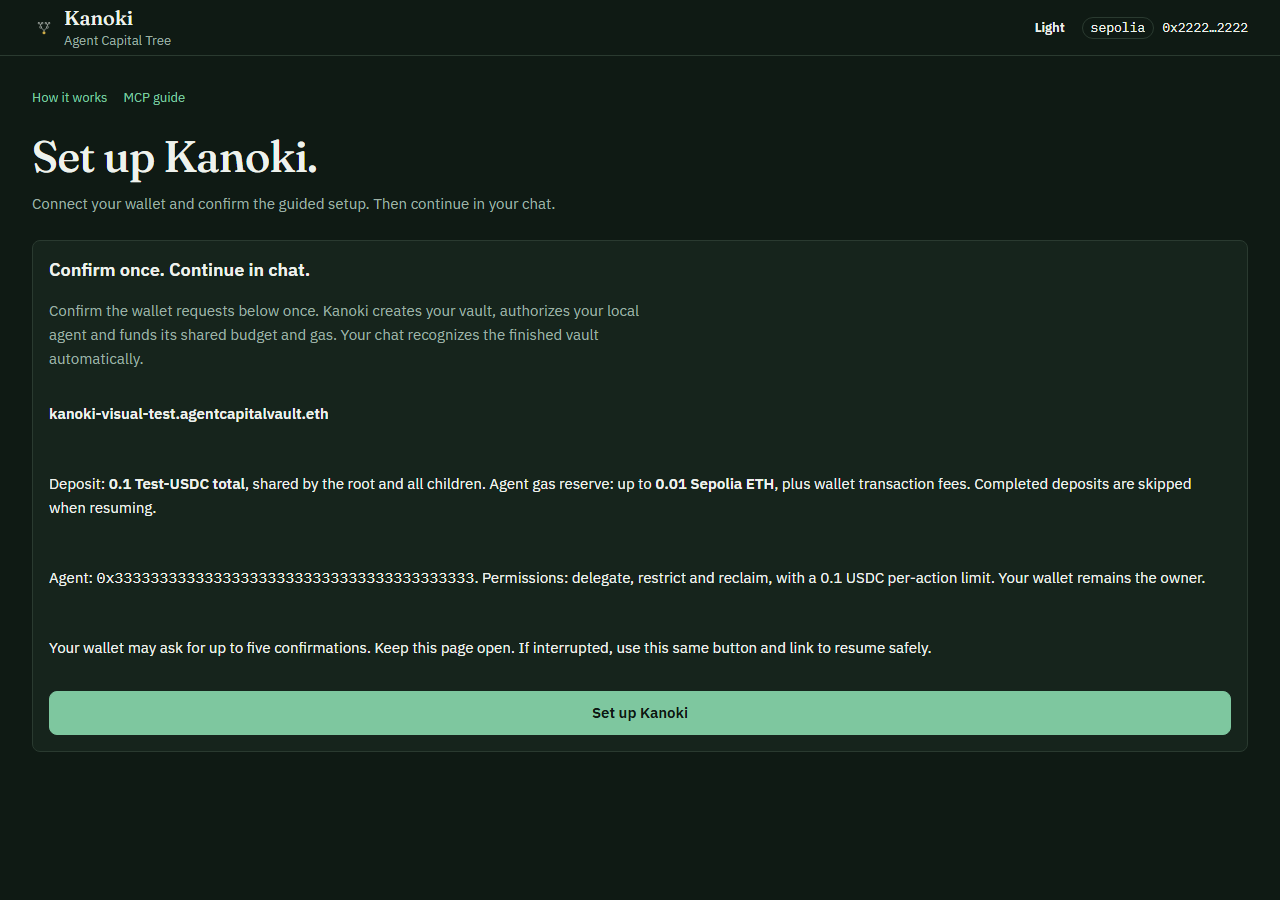
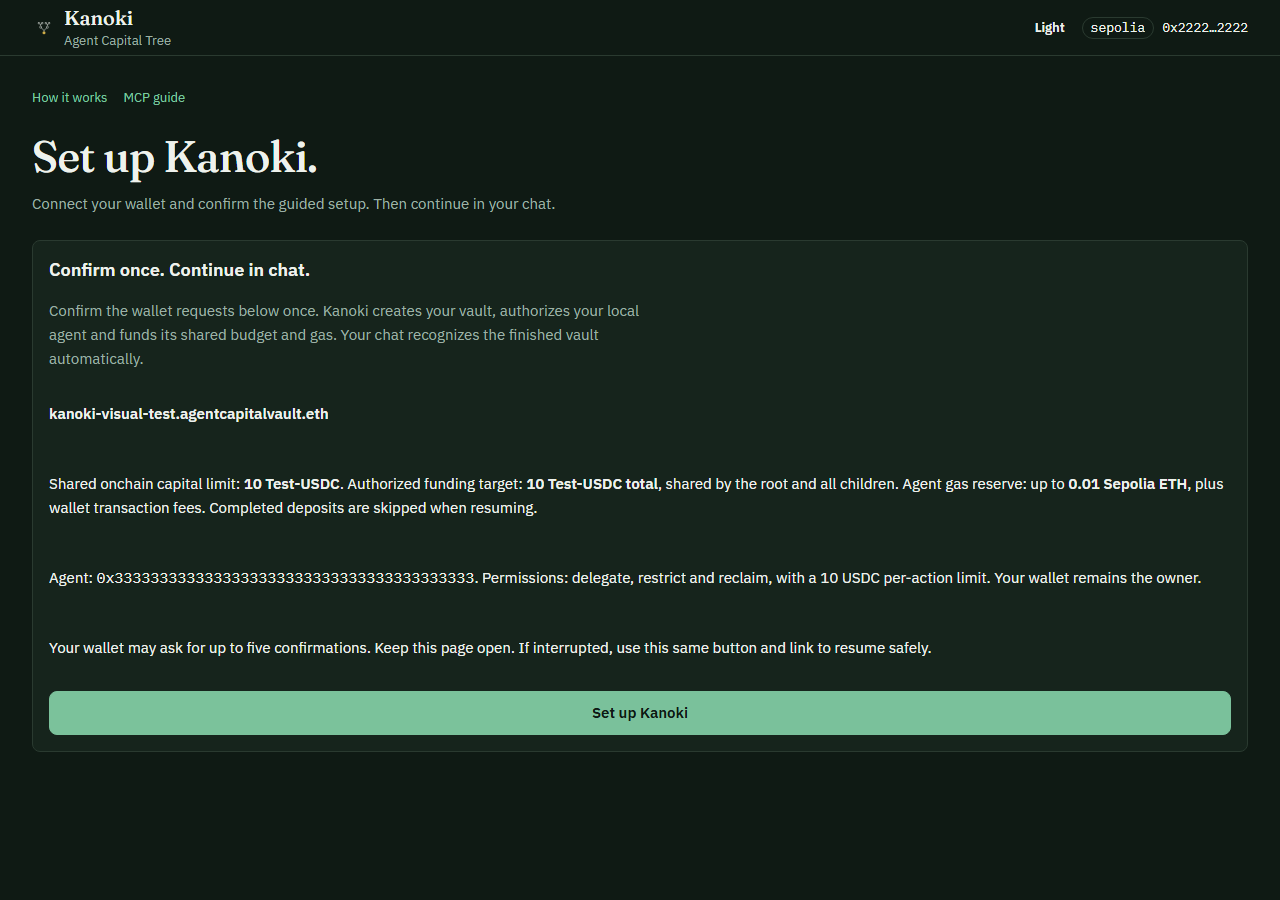
feat(web): persist explicit tree limits and resumable wallet steps
Separate shared limit, authorized funding and gas; reconcile receipts and skip completed funding. Production build, typecheck and guided wallet/browser checks passed.

Changed region(s): [[0.0312, 0.5289, 0.9688, 0.5911], [0.625, 0.6222, 0.9375, 0.6533]]

diff --git a/apps/web/src/lib/use-wallet-actions.ts b/apps/web/src/lib/use-wallet-actions.ts
@@ -36,6 +36,7 @@ export interface WalletActionNotice {
   label: string;
   message: string;
   transactionHash?: Hash;
+  steps?: Record<string, {status: string; hash?: Hash}>;
 }
 
 const permissionCapabilities: Record<Permission, Capability> = {
@@ -286,10 +287,10 @@ export function useWalletActions({
   }
 
   const actions: DashboardActions = {
-    async completeRootSetup(label, operatorInput, budgetRaw, draft) {
+    async completeRootSetup(label, operatorInput, budgetRaw, draft, fundingRaw) {
       if (busy.current) throw new Error("Setup is already running.");
       if (deployment.recoveryOnly) throw new Error("New setup requires the current Kanoki deployment.");
-      if (!/^[a-z][a-z0-9-]{0,30}$/.test(label) || !isAddress(operatorInput) || operatorInput === zeroAddress || !/^[1-9]\d{0,5}$/.test(budgetRaw) || BigInt(budgetRaw) > 100000n) throw new Error("Invalid prepared setup link.");
+      if (!/^[a-z][a-z0-9-]{0,30}$/.test(label) || !isAddress(operatorInput) || operatorInput === zeroAddress || !/^[1-9]\d{0,77}$/.test(budgetRaw) || BigInt(budgetRaw) >= 2n ** 256n || !/^(0|[1-9]\d{0,77})$/.test(fundingRaw) || BigInt(fundingRaw) > BigInt(budgetRaw)) throw new Error("Invalid prepared setup limit or funding amount.");
       busy.current = true;
       try {
         const context = await createContext();
@@ -297,17 +298,20 @@ export function useWalletActions({
         if (operator.toLowerCase() === context.account.toLowerCase()) throw new Error("The local agent must be separate from your owner wallet.");
         const policy = makePolicy(draft, await readTokenDecimals(context), deployment);
         const journalKey = `kanoki-setup:11155111:${context.controller.toLowerCase()}:${context.account.toLowerCase()}:${label}`;
-        const fingerprint = JSON.stringify({ operator, budgetRaw });
+        const fingerprint = JSON.stringify({ operator, budgetRaw, fundingRaw });
         const saved = localStorage.getItem(journalKey);
-        const journal: { fingerprint: string; pendingHash?: Hash; submitting?: boolean; funded?: boolean; gasFunded?: boolean } = saved ? JSON.parse(saved) : { fingerprint };
+        const journal: { fingerprint: string; pendingHash?: Hash; pendingStep?: string; submitting?: boolean; funded?: boolean; gasFunded?: boolean; steps?: Record<string,{status:string;hash?:Hash}> } = saved ? JSON.parse(saved) : { fingerprint };
+        journal.steps ??= Object.fromEntries(['Root creation','Operator authorization','USDC approval','USDC funding','Operator gas'].map(step=>[step,{status:'required'}]));
         if (journal.fingerprint !== fingerprint) throw new Error("This setup already started with different parameters. Reopen its original link; do not create a replacement.");
         const persist = () => localStorage.setItem(journalKey, JSON.stringify(journal));
         persist(); // Prove durable storage works before the first wallet request.
         if (journal.submitting && !journal.pendingHash) throw new Error("A previous wallet request has an unknown outcome. Check your wallet activity before any retry; no replacement transaction will be sent.");
         const reconcile = async () => {
           if (!journal.pendingHash) return;
-          setNotice({ stage: "confirming", label: "Resume wallet setup", message: "Checking the previously submitted transaction. No replacement will be sent.", transactionHash: journal.pendingHash });
+          if (journal.pendingStep) journal.steps![journal.pendingStep] = {status:'transaction pending',hash:journal.pendingHash};
+          setNotice({ stage: "confirming", label: "Resume wallet setup", message: "Checking the previously submitted transaction. No replacement will be sent.", transactionHash: journal.pendingHash,steps:{...journal.steps} });
           const receipt = await context.publicClient.waitForTransactionReceipt({ hash: journal.pendingHash });
+          if (journal.pendingStep) journal.steps![journal.pendingStep] = {status:receipt.status === 'success'?'confirmed':'failed',hash:journal.pendingHash};
           delete journal.pendingHash; delete journal.submitting; persist();
           if (receipt.status !== "success") throw new Error("The previous setup transaction reverted. Resume setup to retry that step.");
         };
@@ -315,7 +319,9 @@ export function useWalletActions({
         const send = async (label: string, submit: () => Promise<Hash>) => {
           const accounts = await context.walletClient.getAddresses();
           if (accounts[0]?.toLowerCase() !== context.account.toLowerCase() || await context.walletClient.getChainId() !== sepolia.id) throw new Error("Wallet account or network changed; setup stopped.");
-          setNotice({ stage: "awaiting-wallet", label, message: "Confirm this setup transaction in your wallet. Remaining steps continue automatically." });
+          journal.pendingStep = label;
+          journal.steps![label] = {status:'signature pending'};
+          setNotice({ stage: "awaiting-wallet", label, message: "Confirm this setup transaction in your wallet. Remaining steps continue automatically.",steps:{...journal.steps} });
           journal.submitting = true; persist();
           try { journal.pendingHash = await submit(); persist(); }
           catch (error) {
@@ -330,6 +336,7 @@ export function useWalletActions({
           await reconcile();
         };
         const contract = { address: context.controller, abi: capitalControllerAbi } as const;
+        await context.publicClient.readContract({ ...contract, functionName: "rootCapitalLimit", args: [0n] });
         const next = await context.publicClient.readContract({ ...contract, functionName: "nextNodeId" });
         if (next > 513n) throw new Error("Vault directory exceeds the supported lookup size.");
         let root: Awaited<ReturnType<typeof readNode>> | undefined;
@@ -339,38 +346,42 @@ export function useWalletActions({
           if (node.parentId === 0n && node.label === label) { root = node; break; }
         }
         if (!root) {
-          const { request } = await context.publicClient.simulateContract({ ...contract, account: context.account, functionName: "createRoot", args: [label, policy] });
-          await send("1/4 · Create your vault", () => context.walletClient.writeContract(request));
+          const { request } = await context.publicClient.simulateContract({ ...contract, account: context.account, functionName: "createRootWithCapitalLimit", args: [label, policy, BigInt(budgetRaw)] });
+          await send("Root creation", () => context.walletClient.writeContract(request));
           const end = await context.publicClient.readContract({ ...contract, functionName: "nextNodeId" });
           for (let id = next; id < end; id++) { const node = await readNode(id); if (node.parentId === 0n && node.label === label) { root = node; break; } }
         }
         if (!root) throw new Error("Confirmed root could not be found. Resume this same setup; do not choose a new name.");
         if (root.revoked) throw new Error("This vault is permanently revoked. Setup stopped without funding.");
+        const actualLimit = await context.publicClient.readContract({...contract, functionName:"rootCapitalLimit", args:[root.id]});
+        if (actualLimit !== BigInt(budgetRaw)) throw new Error("Onchain shared capital limit differs from the confirmed setup. No funding requested.");
         await requireOwner(context, String(root.id));
         const bound = await context.publicClient.readContract({ ...contract, functionName: "rootOperator", args: [root.id] });
         if (bound !== zeroAddress && bound.toLowerCase() !== operator.toLowerCase()) throw new Error("A different operator is already bound. Setup will not replace it.");
         if (bound === zeroAddress) {
           const { request } = await context.publicClient.simulateContract({ ...contract, account: context.account, functionName: "setRootOperator", args: [root.id, operator, root.policy] });
-          await send("2/4 · Authorize your local Kanoki agent", () => context.walletClient.writeContract(request));
+          await send("Operator authorization", () => context.walletClient.writeContract(request));
         }
         const missingFunding = async () => {
           const blockNumber = await context.publicClient.getBlockNumber();
           const ids = await context.publicClient.readContract({ ...contract, functionName: "getRootNodeIds", args: [root!.id], blockNumber });
           let total = 0n;
           for (const id of ids) { const node = await context.publicClient.readContract({ ...contract, functionName: "getNode", args: [id], blockNumber }); total += await context.publicClient.readContract({ address: context.tokens[0], abi: erc20Abi, functionName: "balanceOf", args: [node.vault], blockNumber }); }
-          return BigInt(budgetRaw) > total ? BigInt(budgetRaw) - total : 0n;
+          const funded = await context.publicClient.readContract({...contract,functionName:"rootCapitalFunded",args:[root!.id],blockNumber});
+          const accounted = total > funded ? total : funded;
+          return BigInt(fundingRaw) > accounted ? BigInt(fundingRaw) - accounted : 0n;
         };
         let missing = await missingFunding();
         if (!journal.funded && missing > 0n) {
           const allowance = await context.publicClient.readContract({ address: context.tokens[0], abi: erc20Abi, functionName: "allowance", args: [context.account, context.controller] });
           if (allowance < missing) {
             const { request } = await context.publicClient.simulateContract({ address: context.tokens[0], abi: erc20Abi, account: context.account, functionName: "approve", args: [context.controller, missing] });
-            await send("3/4 · Approve the exact USDC deposit", () => context.walletClient.writeContract(request));
+            await send("USDC approval", () => context.walletClient.writeContract(request));
           }
           missing = await missingFunding();
           if (missing > 0n) {
             const { request } = await context.publicClient.simulateContract({ ...contract, account: context.account, functionName: "fundRoot", args: [root.id, [missing, 0n]] });
-            await send("3/4 · Fund your shared vault budget", () => context.walletClient.writeContract(request));
+            await send("USDC funding", () => context.walletClient.writeContract(request));
           }
         }
         journal.funded = true; persist();
@@ -379,10 +390,12 @@ export function useWalletActions({
         if (!journal.gasFunded && gasBalance < reserve) {
           const value = reserve - gasBalance;
           const gas = await context.publicClient.estimateGas({ account: context.account, to: operator, value });
-          await send("4/4 · Fund the agent's Sepolia gas reserve", () => context.walletClient.sendTransaction({ account: context.account, chain: sepolia, to: operator, value, gas }));
+          await send("Operator gas", () => context.walletClient.sendTransaction({ account: context.account, chain: sepolia, to: operator, value, gas }));
         }
         journal.gasFunded = true; persist();
-        setNotice({ stage: "confirmed", label: "Kanoki setup completed", message: "Return to your chat. Kanoki recognizes this vault automatically and checks its current balance and gas. Completed deposits are never repeated." });
+        for (const entry of Object.values(journal.steps!)) if (entry.status === 'required') entry.status = 'already satisfied';
+        persist();
+        setNotice({ stage: "confirmed", label: "Kanoki setup completed", message: "Kanoki continues the saved task automatically. No done message or transaction hash is needed. Completed deposits are never repeated.",steps:{...journal.steps} });
         return root.vault;
       } catch (cause) {
         setNotice({ stage: "error", label: "Resume Kanoki setup", message: errorMessage(cause) });
@@ -477,7 +490,7 @@ export function useWalletActions({
 
         const checkDemoFunding = async () => {
           if (demoTotalBudgetRaw === undefined) return; // The demo cap is NOT a general contract balance limit.
-          if (!/^[1-9]\d{0,5}$/.test(demoTotalBudgetRaw) || BigInt(demoTotalBudgetRaw) > 100000n) throw new Error("Demo total budget must be at most 100000 raw units = 0.10 Test-USDC.");
+          if (!/^[1-9]\d{0,77}$/.test(demoTotalBudgetRaw) || BigInt(demoTotalBudgetRaw) >= 2n ** 256n) throw new Error("Shared capital amount must be a positive uint256 in raw Test-USDC units.");
           const blockNumber = await context.publicClient.getBlockNumber();
           const ids = await context.publicClient.readContract({ address: context.controller, abi: capitalControllerAbi, functionName: "getRootNodeIds", args: [BigInt(rootId)], blockNumber });
           let total = 0n;

diff --git a/apps/web/src/components/wallet-controls.tsx b/apps/web/src/components/wallet-controls.tsx
@@ -1,5 +1,6 @@
 "use client";
 import { ConfirmModal } from "./treasury-records";
+import { formatUnits } from "viem";
 
 import { useEffect, useState, type FormEvent, type ReactNode } from "react";
 import { ArrowUpRight, Check, ShieldAlert, ShieldCheck } from "lucide-react";
@@ -110,6 +111,7 @@ function PolicyFields({
   initialPolicy: Policy | null;
   createRoot?: boolean;
   demoBudget?: string | null;
+  setupFunding?: string | null;
   deployment: PublicDeployment;
   data: DashboardData;
   children?: ReactNode;
@@ -128,7 +130,7 @@ function PolicyFields({
     initialPolicy ? initialPolicy.allowedTokens.includes(initialPolicy.maxActionAmounts[0]?.symbol ?? "") : true,
     initialPolicy ? initialPolicy.allowedTokens.includes(initialPolicy.maxActionAmounts[1]?.symbol ?? "") : !demoBudget,
   ]);
-  const [maxAmounts, setMaxAmounts] = useState<[string, string]>(demoBudget && !initialPolicy ? [(Number(demoBudget) / 1_000_000).toString(), "0"] : !initialPolicy && createRoot ? ["20", "20"] : [...defaultAmounts(initialPolicy)]);
+  const [maxAmounts, setMaxAmounts] = useState<[string, string]>(demoBudget && !initialPolicy ? [formatUnits(BigInt(demoBudget), 6), "0"] : !initialPolicy && createRoot ? ["20", "20"] : [...defaultAmounts(initialPolicy)]);
   const [expiresAt, setExpiresAt] = useState(policyDate(initialPolicy) || expiryDateBeforeNamespace(deployment.namespaceExpiry));
   const [error, setError] = useState<string | null>(null);
 
@@ -248,6 +250,7 @@ export function WalletControlsPanel({
   demoLabel,
   demoBudget,
   setupOperator,
+  setupFunding,
   creationOnly = false,
 }: {
   data: DashboardData;
@@ -263,6 +266,7 @@ export function WalletControlsPanel({
   onRootCreated: (rootId: string) => void;
   demoLabel?: string | null;
   demoBudget?: string | null;
+  setupFunding?: string | null;
   setupOperator?: string | null;
   creationOnly?: boolean;
 }) {
@@ -271,7 +275,7 @@ export function WalletControlsPanel({
     if (!demoLabel) setRootLabel(current => current || generateRootLabel());
   }, [demoLabel]);
   const [operatorAddress, setOperatorAddress] = useState(setupOperator ?? data.rootOperator ?? "");
-  const budgetUSDC = demoBudget ? (Number(demoBudget) / 1_000_000).toString() : "0";
+  const budgetUSDC = demoBudget ? formatUnits(BigInt(demoBudget), 6) : "0";
   const [fundAmounts, setFundAmounts] = useState<[string, string]>([budgetUSDC, "0"]);
   const [childLabel, setChildLabel] = useState("");
   const [childAgent, setChildAgent] = useState("");
@@ -282,7 +286,7 @@ export function WalletControlsPanel({
   const [confirming, setConfirming] = useState(false);
   const [setupRunning, setSetupRunning] = useState(false);
   const [setupError, setSetupError] = useState<string | null>(null);
-  const managedSetup = Boolean(creationOnly && setupOperator && demoBudget);
+  const managedSetup = Boolean(creationOnly && setupOperator && demoBudget && setupFunding !== null && setupFunding !== undefined);
   const labels = tokenLabels(data, deployment);
   const busy = notice?.stage === "simulating" || notice?.stage === "awaiting-wallet" || notice?.stage === "confirming";
   const ownerConnected = Boolean(
@@ -335,6 +339,7 @@ export function WalletControlsPanel({
 
   const displayedNotice = notice && (
     <div className={`wallet-action-notice wallet-action-notice-${notice.stage}`} role="status" aria-live="polite">
+      {notice.steps && <ul>{Object.entries(notice.steps).map(([step,value])=><li key={step}>{step}: {value.status}{value.hash && <> · <a href={`https://sepolia.etherscan.io/tx/${value.hash}`} target="_blank" rel="noreferrer">Receipt</a></>}</li>)}</ul>}
       <strong>{notice.label}</strong>
       <span>{notice.message}</span>
       {notice.transactionHash && (
@@ -390,19 +395,19 @@ export function WalletControlsPanel({
 
       {managedSetup && <form className="wallet-action-form" onSubmit={async event => {
         event.preventDefault();
-        if (setupRunning || !setupOperator || !demoBudget || !actions.completeRootSetup) return;
+        if (setupRunning || !setupOperator || !demoBudget || setupFunding == null || !actions.completeRootSetup) return;
         setSetupRunning(true); setSetupError(null);
         try {
           const vault = await actions.completeRootSetup(rootLabel, setupOperator, demoBudget, {
             permissions: ["delegate", "restrict", "reclaim"], allowedTokens: [true, false],
             maxAmounts: [budgetUSDC, "0"], expiresAt: expiryDateBeforeNamespace(deployment.namespaceExpiry), poolId: zeroPoolId,
-          });
+          }, setupFunding);
           onRootCreated(vault);
         } catch (error) { setSetupError(error instanceof Error ? error.message : "Setup paused. Resume with the same link."); }
         finally { setSetupRunning(false); }
       }}>
         <p><strong>{rootLabel}.{deployment.namespaceName}</strong></p>
-        <p>Deposit: <strong>{budgetUSDC} Test-USDC total</strong>, shared by the root and all children. Agent gas reserve: up to <strong>0.01 Sepolia ETH</strong>, plus wallet transaction fees. Completed deposits are skipped when resuming.</p>
+        <p>Shared onchain capital limit: <strong>{budgetUSDC} Test-USDC</strong>. Authorized funding target: <strong>{setupFunding ? formatUnits(BigInt(setupFunding), 6) : "0"} Test-USDC total</strong>, shared by the root and all children. Agent gas reserve: up to <strong>0.01 Sepolia ETH</strong>, plus wallet transaction fees. Completed deposits are skipped when resuming.</p>
         <p>Agent: <code style={{ overflowWrap: "anywhere" }}>{setupOperator}</code>. Permissions: delegate, restrict and reclaim, with a {budgetUSDC} USDC per-action limit. Your wallet remains the owner.</p>
         <p>Your wallet may ask for up to five confirmations. Keep this page open. If interrupted, use this same button and link to resume safely.</p>
         {setupError && <p role="alert">{setupError}</p>}
@@ -459,7 +464,7 @@ export function WalletControlsPanel({
         event.preventDefault();
         if (setupOperator) void actions.fundOperatorGas?.(data.rootId, setupOperator).catch(() => undefined);
       }}>
-        <p className="wallet-form-context">Send native <strong>Sepolia ETH</strong> from the owner wallet to the bound local signer. Only the difference up to <strong>0.01 ETH</strong> is requested. This is separate from the 0.10 Test-USDC vault budget. No USDC approval is involved.</p>
+        <p className="wallet-form-context">Send native <strong>Sepolia ETH</strong> from the owner wallet to the bound local signer. Only the difference up to <strong>0.01 ETH</strong> is requested. This is separate from the shared Test-USDC capital limit. No USDC approval is involved.</p>
         <label className="wallet-field"><span>Bound local signer · verify this address</span><input value={setupOperator ?? "No local signer provided"} readOnly /></label>
         <p className="field-help">Unused gas stays with this local key. The MCP estimates fees again before each child transaction. If this page is stale or binding differs, the transaction is blocked.</p>
         <button type="submit" className="button button-primary button-small" disabled={!canManageRoot || !agentMatches || !actions.fundOperatorGas || busy}>Review gas top-up in wallet</button>

diff --git a/apps/web/src/lib/dashboard-page.tsx b/apps/web/src/lib/dashboard-page.tsx
@@ -4,7 +4,7 @@ import { previewDashboard } from "@/lib/preview-data";
 import { notFound } from "next/navigation";
 
 export type DashboardView = "overview" | "tree" | "activity" | "agent-activity" | "uniswap" | "payments" | "applications" | "mcp" | "setup";
-export type DashboardSearchParams = Promise<{ root?: string | string[]; vault?: string | string[]; preview?: string | string[]; node?: string | string[]; action?: string | string[]; label?: string | string[]; budget?: string | string[]; operator?: string | string[]; tour?: string | string[]; step?: string | string[] }>;
+export type DashboardSearchParams = Promise<{ root?: string | string[]; vault?: string | string[]; preview?: string | string[]; node?: string | string[]; action?: string | string[]; label?: string | string[]; budget?: string | string[]; funding?: string | string[]; operator?: string | string[]; tour?: string | string[]; step?: string | string[] }>;
 
 export async function renderDashboard(view: DashboardView, searchParams: DashboardSearchParams) {
   const params = await searchParams;
@@ -18,7 +18,8 @@ export async function renderDashboard(view: DashboardView, searchParams: Dashboa
   const parsedStep = typeof params.step === "string" ? Number.parseInt(params.step, 10) : NaN;
   const step = Number.isFinite(parsedStep) ? parsedStep : 1;
   const demoLabel = typeof params.label === "string" && /^[a-z][a-z0-9-]{0,30}$/.test(params.label) ? params.label : null;
-  const demoBudget = typeof params.budget === "string" && /^(?:0|[1-9]\d{0,5})$/.test(params.budget) && Number(params.budget) <= 100000 ? params.budget : null;
+  const demoBudget = typeof params.budget === "string" && /^[1-9]\d{0,77}$/.test(params.budget) && BigInt(params.budget) < 2n ** 256n ? params.budget : null;
+  const setupFunding = typeof params.funding === "string" && /^(0|[1-9]\d{0,77})$/.test(params.funding) && demoBudget && BigInt(params.funding) <= BigInt(demoBudget) ? params.funding : null;
   const setupOperator = typeof params.operator === "string" && /^0x[a-fA-F0-9]{40}$/.test(params.operator) ? params.operator : null;
-  return <Dashboard data={previewDashboard} deployment={deployment} onboarding={!vault && params.preview !== "1" && view !== "mcp"} vaultQuery={vault} nodeQuery={node} actionQuery={action} demoLabel={demoLabel} demoBudget={demoBudget} setupOperator={setupOperator} view={view} tour={tour} step={step} />;
+  return <Dashboard data={previewDashboard} deployment={deployment} onboarding={!vault && params.preview !== "1" && view !== "mcp"} vaultQuery={vault} nodeQuery={node} actionQuery={action} demoLabel={demoLabel} demoBudget={demoBudget} setupFunding={setupFunding} setupOperator={setupOperator} view={view} tour={tour} step={step} />;
 }

diff --git a/apps/web/src/components/dashboard.tsx b/apps/web/src/components/dashboard.tsx
@@ -94,6 +94,7 @@ interface DashboardProps {
   actionQuery?: WalletActionMode;
   demoLabel?: string | null;
   demoBudget?: string | null;
+  setupFunding?: string | null;
   setupOperator?: string | null;
   view: "overview" | "tree" | "activity" | "agent-activity" | "uniswap" | "payments" | "applications" | "mcp" | "setup";
   tour?: boolean;
@@ -1059,7 +1060,7 @@ function Footer({ source, vaultQuery }: { source: DataSource; vaultQuery: string
   );
 }
 
-export function Dashboard({ data: initialData, deployment, vaultQuery, nodeQuery, actionQuery, demoLabel, demoBudget, setupOperator, view, onboarding = false, tour = false, step = 1 }: DashboardProps) {
+export function Dashboard({ data: initialData, deployment, vaultQuery, nodeQuery, actionQuery, demoLabel, demoBudget, setupFunding, setupOperator, view, onboarding = false, tour = false, step = 1 }: DashboardProps) {
   const router = useRouter();
   const vaultKey = vaultQuery?.toLowerCase() ?? null;
   const [selectedId, setSelectedId] = useState(nodeQuery ?? initialData.rootId);
@@ -1333,7 +1334,7 @@ export function Dashboard({ data: initialData, deployment, vaultQuery, nodeQuery
             onModeChange={setWalletActionMode}
             onRootCreated={(vaultAddress) => router.push(setupOperator ? `/tree?vault=${encodeURIComponent(vaultAddress)}` : `/setup?vault=${encodeURIComponent(vaultAddress)}${demoBudget ? `&action=fund-root&budget=${demoBudget}` : ""}`)}
             demoLabel={demoLabel}
-            demoBudget={demoBudget}
+            demoBudget={demoBudget} setupFunding={setupFunding}
             setupOperator={setupOperator}
           />}
           {!setupOperator && <nav className="onboarding-links" aria-label="Explore and get started">
@@ -1454,7 +1455,7 @@ export function Dashboard({ data: initialData, deployment, vaultQuery, nodeQuery
               router.push(`/setup?vault=${encodeURIComponent(vaultAddress)}${demoBudget ? `&action=fund-root&budget=${demoBudget}` : ""}`);
             }}
             demoLabel={demoLabel}
-            demoBudget={demoBudget}
+            demoBudget={demoBudget} setupFunding={setupFunding}
             setupOperator={setupOperator}
           />
           <details className="setup-disclosure">

diff --git a/apps/web/src/lib/dashboard-types.ts b/apps/web/src/lib/dashboard-types.ts
@@ -192,7 +192,7 @@ export interface DashboardData {
 export interface DashboardActions {
   claimDemoQuote?: () => Promise<void>;
   createRoot?: (label: string, policy: PolicyDraft) => Promise<string>;
-  completeRootSetup?: (label: string, operator: string, budgetRaw: string, policy: PolicyDraft) => Promise<string>;
+  completeRootSetup?: (label: string, operator: string, budgetRaw: string, policy: PolicyDraft, fundingRaw: string) => Promise<string>;
   fundRoot?: (rootId: string, amounts: readonly [string, string], demoTotalBudgetRaw?: string) => Promise<void>;
   fundOperatorGas?: (rootId: string, operator: string) => Promise<void>;
   setRootOperator?: (rootId: string, operator: string, policy: PolicyDraft) => Promise<void>;
